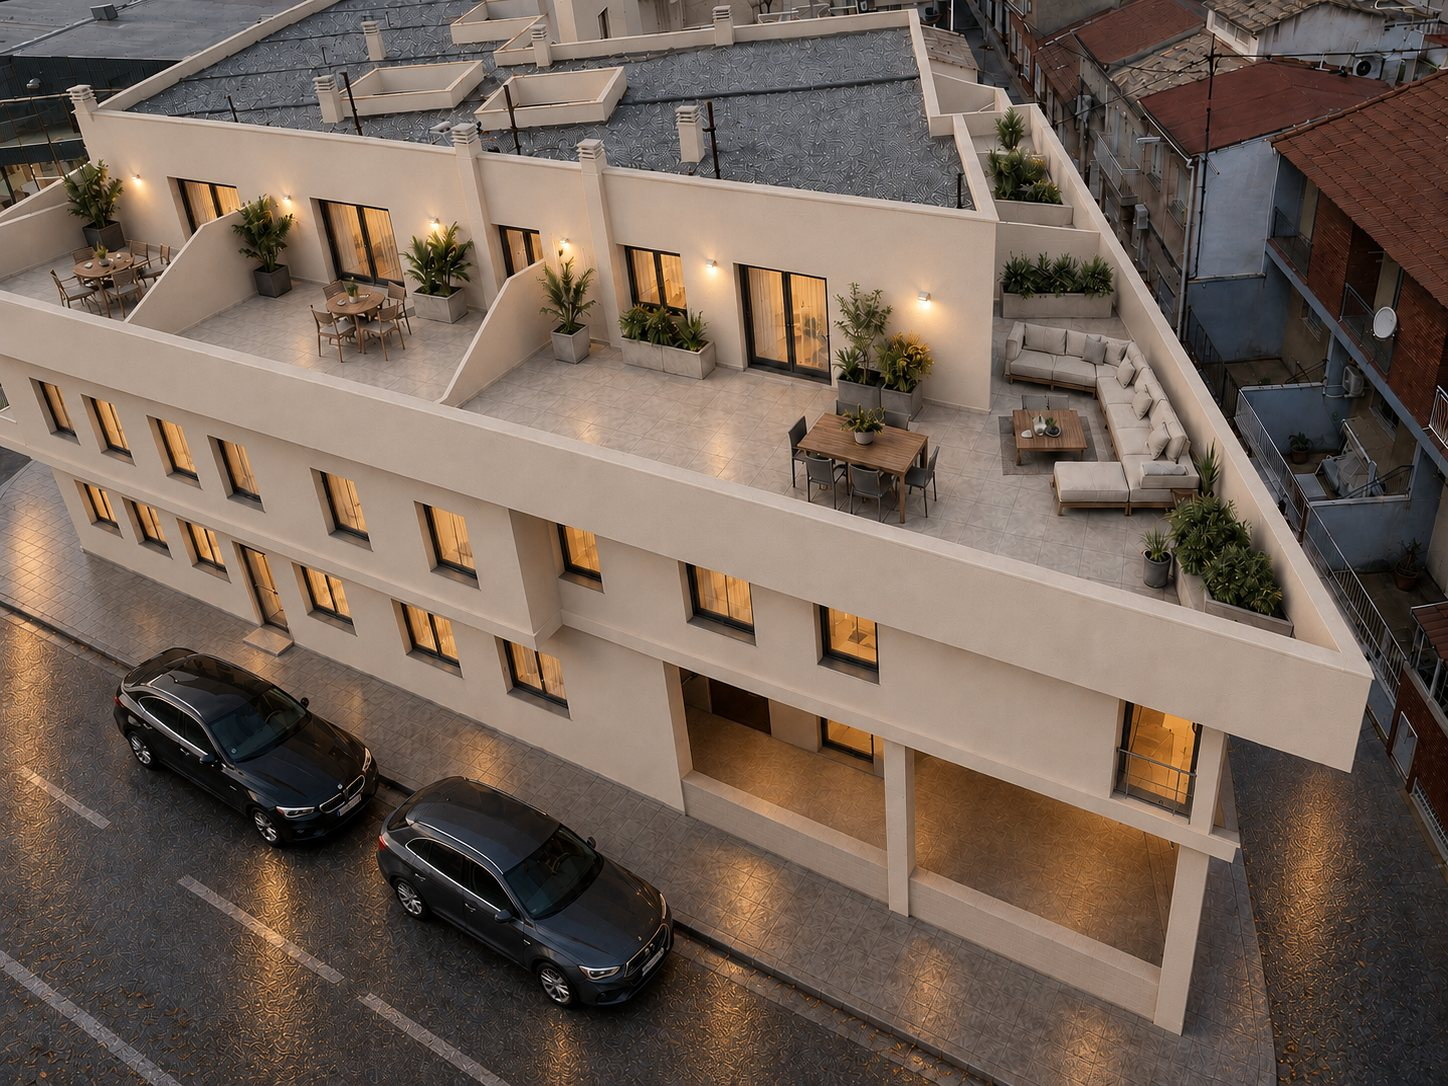
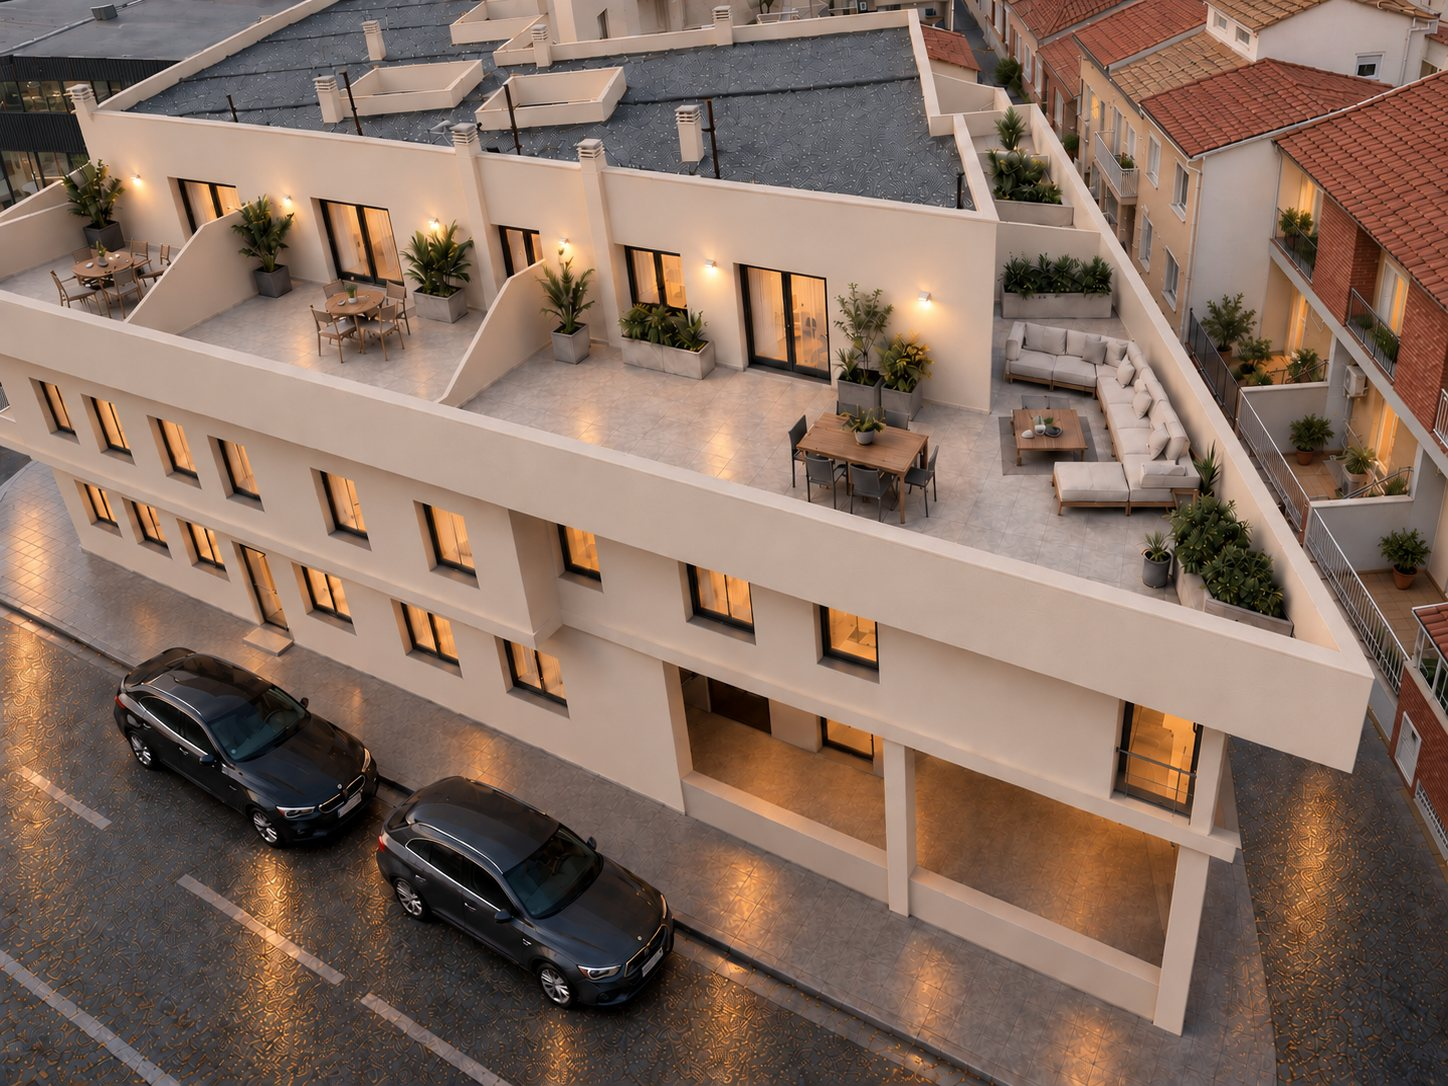
Cifras: celda 'Dos modalidades' (3/4 dormitorios + estudio en buhardilla, 3 o 4 baños y aseos); foto aérea retocada (entorno con gimnasio)

diff --git a/fr/index.html b/fr/index.html
@@ -27,7 +27,7 @@
 <link rel="preload" href="/assets/fonts/cormorant-italic-latin.woff2" as="font" type="font/woff2" crossorigin>
 <link rel="preload" href="/assets/fonts/jost-latin.woff2" as="font" type="font/woff2" crossorigin>
 <link rel="preload" href="/assets/fonts/cormorant-latin.woff2" as="font" type="font/woff2" crossorigin>
-<link rel="stylesheet" href="/assets/css/styles.css?v=8b87f6e2">
+<link rel="stylesheet" href="/assets/css/styles.css?v=ff23bb24">
 <script>document.documentElement.className+=" js"</script>
 <script type="application/ld+json">
 {"@context":"https://schema.org","@type":"ApartmentComplex","name":"Edificio Biera","description":"10 maisons en triplex neuves avec solarium privé et parking à Santa Catalina, Murcie.","numberOfAccommodationUnits":10,"address":{"@type":"PostalAddress","streetAddress":"Carretera de Santa Catalina, esquina C/ Los Mateos","postalCode":"30012","addressLocality":"Murcia","addressCountry":"ES"},"image":"https://edificiobiera.com/assets/img/og.jpg","url":"https://edificiobiera.com/fr/","offers":{"@type":"AggregateOffer","lowPrice":330000,"priceCurrency":"EUR","offerCount":10}}
@@ -113,7 +113,7 @@
 
 <section class="sec casa" id="casa" aria-labelledby="t-casa">
   <figure class="bleed rv">
-    <picture><source srcset="/assets/img/foto-aerea-tarde.webp" type="image/webp"><img src="/assets/img/foto-aerea-tarde.jpg" alt="Vue aérienne de l’immeuble au coucher du soleil, solariums privés éclairés" loading="lazy" decoding="async" width="1448" height="1086"></picture>
+    <picture><source srcset="/assets/img/foto-aerea-tarde.webp?v=3" type="image/webp"><img src="/assets/img/foto-aerea-tarde.jpg?v=3" alt="Vue aérienne de l’immeuble au coucher du soleil, solariums privés éclairés" loading="lazy" decoding="async" width="1448" height="1086"></picture>
   </figure>
   <div class="wrap levels">
     <div class="levels-h rv">
@@ -529,6 +529,6 @@
 
 </div>
 <script>window.BIERA={"lang": "fr", "action": "https://script.google.com/macros/s/AKfycbwH0q-_CXay633v2sonk-mG-Pwk5WfWceUOL_T7aMZZ30lIga-0zNrffIKxe6H7eX9B4w/exec", "units": {"1": {"name": "Triplex d’extrémité, avec box double", "dist": "4 ch. + bureau sous combles · 3 salles de bains + WC", "constr": "165,41", "d": 4}, "2": {"name": "Triplex central", "dist": "4 ch. + bureau sous combles · 3 salles de bains + WC", "constr": "157,56", "d": 4}, "3": {"name": "Triplex central", "dist": "4 ch. + bureau sous combles · 3 salles de bains + WC", "constr": "158,86", "d": 4}, "4": {"name": "Triplex central, box spacieux", "dist": "4 ch. + bureau sous combles · 3 salles de bains + WC", "constr": "158,40", "d": 4}, "5": {"name": "Triplex d’angle", "dist": "4 ch. + bureau sous combles · 3 salles de bains + WC", "constr": "156,19", "d": 4}, "6": {"name": "Triplex en pan coupé", "dist": "3 ch. + bureau sous combles · 2 salles de bains + WC", "constr": "115,23", "d": 3}, "7": {"name": "Triplex en pan coupé, avec patio", "dist": "3 ch. + bureau sous combles · 2 salles de bains + 2 WC", "constr": "124,59", "d": 3}, "8": {"name": "Triplex avec box double", "dist": "4 ch. + bureau sous combles · 3 salles de bains + WC", "constr": "158,40", "d": 4}, "9": {"name": "Triplex de l’aile nord", "dist": "4 ch. + bureau sous combles · 3 salles de bains + WC", "constr": "150,17", "d": 4}, "10": {"name": "Triplex d’angle, grand solarium", "dist": "4 ch. + bureau sous combles · 3 salles de bains + WC", "constr": "172,18", "d": 4}}, "t": {"f.err.name": "Indiquez votre nom.", "f.err.tel": "Indiquez un numéro de téléphone valide.", "f.err.email": "Vérifiez l’adresse email.", "f.err.priv": "Pour continuer, veuillez accepter les informations relatives à la protection des données.", "f.err.send": "Impossible d’envoyer la demande. Appelez ou écrivez à Daniel au", "f.sending": "Envoi en cours…", "f.ok.p": "Nous avons bien reçu votre demande concernant l’Edificio Biera{ref}. Daniel León, de JD León Inmobiliaria, vous appellera au {tel}. Si vous préférez, écrivez-lui sur <a class=\"u\" href=\"{wa}\">WhatsApp</a> ou appelez le <a class=\"u\" href=\"tel:+34640512434\">640 51 24 34</a>.", "f.ok.ref": " (référence {ref})", "wa.text": "Bonjour Daniel, j’ai vu le site de l’Edificio Biera et je souhaiterais recevoir des informations.", "wa.text_unit": "Bonjour Daniel, j’ai vu le site de l’Edificio Biera et le logement {v} m’intéresse.", "units.count": "{n} logements", "units.count1": "1 logement", "units.viv": "Logement", "units.plan_alt": "Plan de vente du logement {v}", "cta.plan": "Voir le plan"}};</script>
-<script src="/assets/js/main.js?v=8b87f6e2" defer></script>
+<script src="/assets/js/main.js?v=ff23bb24" defer></script>
 </body>
 </html>

diff --git a/index.html b/index.html
@@ -27,7 +27,7 @@
 <link rel="preload" href="/assets/fonts/cormorant-italic-latin.woff2" as="font" type="font/woff2" crossorigin>
 <link rel="preload" href="/assets/fonts/jost-latin.woff2" as="font" type="font/woff2" crossorigin>
 <link rel="preload" href="/assets/fonts/cormorant-latin.woff2" as="font" type="font/woff2" crossorigin>
-<link rel="stylesheet" href="/assets/css/styles.css?v=8b87f6e2">
+<link rel="stylesheet" href="/assets/css/styles.css?v=ff23bb24">
 <script>document.documentElement.className+=" js"</script>
 <script type="application/ld+json">
 {"@context":"https://schema.org","@type":"ApartmentComplex","name":"Edificio Biera","description":"10 viviendas tríplex de obra nueva con solárium privado y aparcamiento en Santa Catalina, Murcia.","numberOfAccommodationUnits":10,"address":{"@type":"PostalAddress","streetAddress":"Carretera de Santa Catalina, esquina C/ Los Mateos","postalCode":"30012","addressLocality":"Murcia","addressCountry":"ES"},"image":"https://edificiobiera.com/assets/img/og.jpg","url":"https://edificiobiera.com/","offers":{"@type":"AggregateOffer","lowPrice":330000,"priceCurrency":"EUR","offerCount":10}}
@@ -113,7 +113,7 @@
 
 <section class="sec casa" id="casa" aria-labelledby="t-casa">
   <figure class="bleed rv">
-    <picture><source srcset="/assets/img/foto-aerea-tarde.webp" type="image/webp"><img src="/assets/img/foto-aerea-tarde.jpg" alt="Vista aérea del edificio al atardecer, con los soláriums privados iluminados" loading="lazy" decoding="async" width="1448" height="1086"></picture>
+    <picture><source srcset="/assets/img/foto-aerea-tarde.webp?v=3" type="image/webp"><img src="/assets/img/foto-aerea-tarde.jpg?v=3" alt="Vista aérea del edificio al atardecer, con los soláriums privados iluminados" loading="lazy" decoding="async" width="1448" height="1086"></picture>
   </figure>
   <div class="wrap levels">
     <div class="levels-h rv">
@@ -529,6 +529,6 @@
 
 </div>
 <script>window.BIERA={"lang": "es", "action": "https://script.google.com/macros/s/AKfycbwH0q-_CXay633v2sonk-mG-Pwk5WfWceUOL_T7aMZZ30lIga-0zNrffIKxe6H7eX9B4w/exec", "units": {"1": {"name": "Tríplex de extremo, con garaje doble", "dist": "4 dorm. + estudio en buhardilla · 3 baños + aseo", "constr": "165,41", "d": 4}, "2": {"name": "Tríplex central", "dist": "4 dorm. + estudio en buhardilla · 3 baños + aseo", "constr": "157,56", "d": 4}, "3": {"name": "Tríplex central", "dist": "4 dorm. + estudio en buhardilla · 3 baños + aseo", "constr": "158,86", "d": 4}, "4": {"name": "Tríplex central, garaje amplio", "dist": "4 dorm. + estudio en buhardilla · 3 baños + aseo", "constr": "158,40", "d": 4}, "5": {"name": "Tríplex de esquina", "dist": "4 dorm. + estudio en buhardilla · 3 baños + aseo", "constr": "156,19", "d": 4}, "6": {"name": "Tríplex en chaflán", "dist": "3 dorm. + estudio en buhardilla · 2 baños + aseo", "constr": "115,23", "d": 3}, "7": {"name": "Tríplex en chaflán, con patio", "dist": "3 dorm. + estudio en buhardilla · 2 baños + 2 aseos", "constr": "124,59", "d": 3}, "8": {"name": "Tríplex con garaje doble", "dist": "4 dorm. + estudio en buhardilla · 3 baños + aseo", "constr": "158,40", "d": 4}, "9": {"name": "Tríplex del ala norte", "dist": "4 dorm. + estudio en buhardilla · 3 baños + aseo", "constr": "150,17", "d": 4}, "10": {"name": "Tríplex de esquina, gran solárium", "dist": "4 dorm. + estudio en buhardilla · 3 baños + aseo", "constr": "172,18", "d": 4}}, "t": {"f.err.name": "Indica tu nombre.", "f.err.tel": "Indica un teléfono válido.", "f.err.email": "Revisa el email.", "f.err.priv": "Para continuar, acepta la información de privacidad.", "f.err.send": "No se ha podido enviar. Llama o escribe a Daniel al", "f.sending": "Enviando…", "f.ok.p": "Hemos recibido tu solicitud sobre el Edificio Biera{ref}. Daniel León, de JD León Inmobiliaria, te llamará al {tel}. Si lo prefieres, escríbele por <a class=\"u\" href=\"{wa}\">WhatsApp</a> o llama al <a class=\"u\" href=\"tel:+34640512434\">640 51 24 34</a>.", "f.ok.ref": " (referencia {ref})", "wa.text": "Hola, Daniel. Escribo desde la web del Edificio Biera y me gustaría recibir información.", "wa.text_unit": "Hola, Daniel. Escribo desde la web del Edificio Biera y me interesa la vivienda {v}.", "units.count": "{n} viviendas", "units.count1": "1 vivienda", "units.viv": "Vivienda", "units.plan_alt": "Plano de venta de la vivienda {v}", "cta.plan": "Ver plano"}};</script>
-<script src="/assets/js/main.js?v=8b87f6e2" defer></script>
+<script src="/assets/js/main.js?v=ff23bb24" defer></script>
 </body>
 </html>

diff --git a/en/index.html b/en/index.html
@@ -27,7 +27,7 @@
 <link rel="preload" href="/assets/fonts/cormorant-italic-latin.woff2" as="font" type="font/woff2" crossorigin>
 <link rel="preload" href="/assets/fonts/jost-latin.woff2" as="font" type="font/woff2" crossorigin>
 <link rel="preload" href="/assets/fonts/cormorant-latin.woff2" as="font" type="font/woff2" crossorigin>
-<link rel="stylesheet" href="/assets/css/styles.css?v=8b87f6e2">
+<link rel="stylesheet" href="/assets/css/styles.css?v=ff23bb24">
 <script>document.documentElement.className+=" js"</script>
 <script type="application/ld+json">
 {"@context":"https://schema.org","@type":"ApartmentComplex","name":"Edificio Biera","description":"10 new-build triplex townhouses with private roof terrace and parking in Santa Catalina, Murcia.","numberOfAccommodationUnits":10,"address":{"@type":"PostalAddress","streetAddress":"Carretera de Santa Catalina, esquina C/ Los Mateos","postalCode":"30012","addressLocality":"Murcia","addressCountry":"ES"},"image":"https://edificiobiera.com/assets/img/og.jpg","url":"https://edificiobiera.com/en/","offers":{"@type":"AggregateOffer","lowPrice":330000,"priceCurrency":"EUR","offerCount":10}}
@@ -113,7 +113,7 @@
 
 <section class="sec casa" id="casa" aria-labelledby="t-casa">
   <figure class="bleed rv">
-    <picture><source srcset="/assets/img/foto-aerea-tarde.webp" type="image/webp"><img src="/assets/img/foto-aerea-tarde.jpg" alt="Aerial view of the building at sunset, with the private roof terraces lit" loading="lazy" decoding="async" width="1448" height="1086"></picture>
+    <picture><source srcset="/assets/img/foto-aerea-tarde.webp?v=3" type="image/webp"><img src="/assets/img/foto-aerea-tarde.jpg?v=3" alt="Aerial view of the building at sunset, with the private roof terraces lit" loading="lazy" decoding="async" width="1448" height="1086"></picture>
   </figure>
   <div class="wrap levels">
     <div class="levels-h rv">
@@ -529,6 +529,6 @@
 
 </div>
 <script>window.BIERA={"lang": "en", "action": "https://script.google.com/macros/s/AKfycbwH0q-_CXay633v2sonk-mG-Pwk5WfWceUOL_T7aMZZ30lIga-0zNrffIKxe6H7eX9B4w/exec", "units": {"1": {"name": "End-of-terrace triplex with double garage", "dist": "4 bed. + attic study · 3 bathrooms + WC", "constr": "165.41", "d": 4}, "2": {"name": "Mid-terrace triplex", "dist": "4 bed. + attic study · 3 bathrooms + WC", "constr": "157.56", "d": 4}, "3": {"name": "Mid-terrace triplex", "dist": "4 bed. + attic study · 3 bathrooms + WC", "constr": "158.86", "d": 4}, "4": {"name": "Mid-terrace triplex, large garage", "dist": "4 bed. + attic study · 3 bathrooms + WC", "constr": "158.40", "d": 4}, "5": {"name": "Corner triplex", "dist": "4 bed. + attic study · 3 bathrooms + WC", "constr": "156.19", "d": 4}, "6": {"name": "Canted-corner triplex", "dist": "3 bed. + attic study · 2 bathrooms + WC", "constr": "115.23", "d": 3}, "7": {"name": "Canted-corner triplex with patio", "dist": "3 bed. + attic study · 2 bathrooms + 2 WCs", "constr": "124.59", "d": 3}, "8": {"name": "Triplex with double garage", "dist": "4 bed. + attic study · 3 bathrooms + WC", "constr": "158.40", "d": 4}, "9": {"name": "North-wing triplex", "dist": "4 bed. + attic study · 3 bathrooms + WC", "constr": "150.17", "d": 4}, "10": {"name": "Corner triplex, large roof terrace", "dist": "4 bed. + attic study · 3 bathrooms + WC", "constr": "172.18", "d": 4}}, "t": {"f.err.name": "Please enter your name.", "f.err.tel": "Please enter a valid phone number.", "f.err.email": "Please check the email address.", "f.err.priv": "To continue, please accept the privacy information.", "f.err.send": "The request could not be sent. Call or message Daniel on", "f.sending": "Sending…", "f.ok.p": "We have received your request about Edificio Biera{ref}. Daniel León from JD León Inmobiliaria will call you on {tel}. If you prefer, message him on <a class=\"u\" href=\"{wa}\">WhatsApp</a> or call <a class=\"u\" href=\"tel:+34640512434\">640 51 24 34</a>.", "f.ok.ref": " (reference {ref})", "wa.text": "Hello Daniel, I’ve just seen the Edificio Biera website and would like some more information.", "wa.text_unit": "Hello Daniel, I’ve just seen the Edificio Biera website and I’m interested in home {v}.", "units.count": "{n} homes", "units.count1": "1 home", "units.viv": "Home", "units.plan_alt": "Sales floor plan of home {v}", "cta.plan": "View floor plan"}};</script>
-<script src="/assets/js/main.js?v=8b87f6e2" defer></script>
+<script src="/assets/js/main.js?v=ff23bb24" defer></script>
 </body>
 </html>

diff --git a/assets/css/styles.css b/assets/css/styles.css
@@ -539,24 +539,28 @@ a.u:hover,button.u:hover{background-size:0 1px;background-position:100% 100%}
 
 /* ===== Cifras: celda "Dos modalidades" ===== */
 .figs{grid-template-columns:minmax(0,2.15fr) repeat(3,minmax(0,1fr))}
-.fig.modes{gap:0;display:grid;grid-template-columns:auto minmax(0,1fr);column-gap:18px;align-content:start}
-.fig .ml{grid-column:1/-1;font-size:11px;letter-spacing:.22em;text-transform:uppercase;font-weight:600;color:var(--ink);margin-bottom:14px}
-.fig .mo{display:grid;grid-template-columns:subgrid;grid-column:1/-1;align-items:baseline;padding:6px 0}
-.fig .mo .n{font-size:calc(var(--fs-1)*.8);line-height:1;white-space:nowrap}
-.fig .mo .mt{font-size:16px;font-weight:500;color:var(--ink);line-height:1.3}
-.fig .mo.bath{margin-top:10px;padding-top:14px;border-top:1px solid var(--line)}
-.fig .mo.bath .mt{font-weight:400;color:var(--mut)}
-@supports not (grid-template-columns:subgrid){.fig .mo{display:flex;gap:18px}}
+.fig.modes{gap:0;justify-content:flex-start}
+.fig .ml{font-size:11px;letter-spacing:.22em;text-transform:uppercase;font-weight:600;color:var(--ink);margin-bottom:12px}
+.fig .mo{display:flex;align-items:baseline;gap:18px;padding:7px 0}
+.fig .mo .n{font-size:calc(var(--fs-1)*.86);line-height:1;white-space:nowrap;min-width:1.1ch}
+.fig .mo .mt{font-family:'Cormorant Garamond',serif;font-size:26px;font-weight:500;color:var(--ink);line-height:1.15;letter-spacing:-.005em}
+.fig .mo.bath{margin-top:12px;padding-top:16px;border-top:1px solid var(--line)}
+.fig .mo.bath .mt{font-family:'Jost',sans-serif;font-size:16px;font-weight:400;color:var(--mut);letter-spacing:0}
 @media (max-width:1100px){
   .figs{grid-template-columns:repeat(3,minmax(0,1fr))}
   .fig.modes{grid-column:1/-1;border-left:0;padding-left:0}
   .fig:nth-child(2){border-left:0;padding-left:0}
   .fig:nth-child(3){border-left:1px solid var(--line);padding-left:18px}
   .fig:nth-child(n+2){border-top:1px solid var(--line)}
-  .fig .mo .n{font-size:38px}
+  .fig .mo .n{font-size:40px}
+  .fig .mo .mt{font-size:22px}
 }
 @media (max-width:760px){
   .figs{grid-template-columns:repeat(2,minmax(0,1fr))}
   .fig:last-child{grid-column:1/-1;border-left:0;padding-left:0}
-  .fig .mo .mt{font-size:15px}
+  .fig .mo{gap:14px;padding:5px 0}
+  .fig .mo .n{font-size:36px}
+  .fig .mo .mt{font-size:20px}
+  .fig .mo.bath{margin-top:8px;padding-top:12px}
+  .fig .mo.bath .mt{font-size:15px}
 }

diff --git a/src/template.html b/src/template.html
@@ -112,7 +112,7 @@
 
 <section class="sec casa" id="casa" aria-labelledby="t-casa">
   <figure class="bleed rv">
-    <picture><source srcset="/assets/img/foto-aerea-tarde.webp" type="image/webp"><img src="/assets/img/foto-aerea-tarde.jpg" alt="{{casa.alt}}" loading="lazy" decoding="async" width="1448" height="1086"></picture>
+    <picture><source srcset="/assets/img/foto-aerea-tarde.webp?v=3" type="image/webp"><img src="/assets/img/foto-aerea-tarde.jpg?v=3" alt="{{casa.alt}}" loading="lazy" decoding="async" width="1448" height="1086"></picture>
   </figure>
   <div class="wrap levels">
     <div class="levels-h rv">
